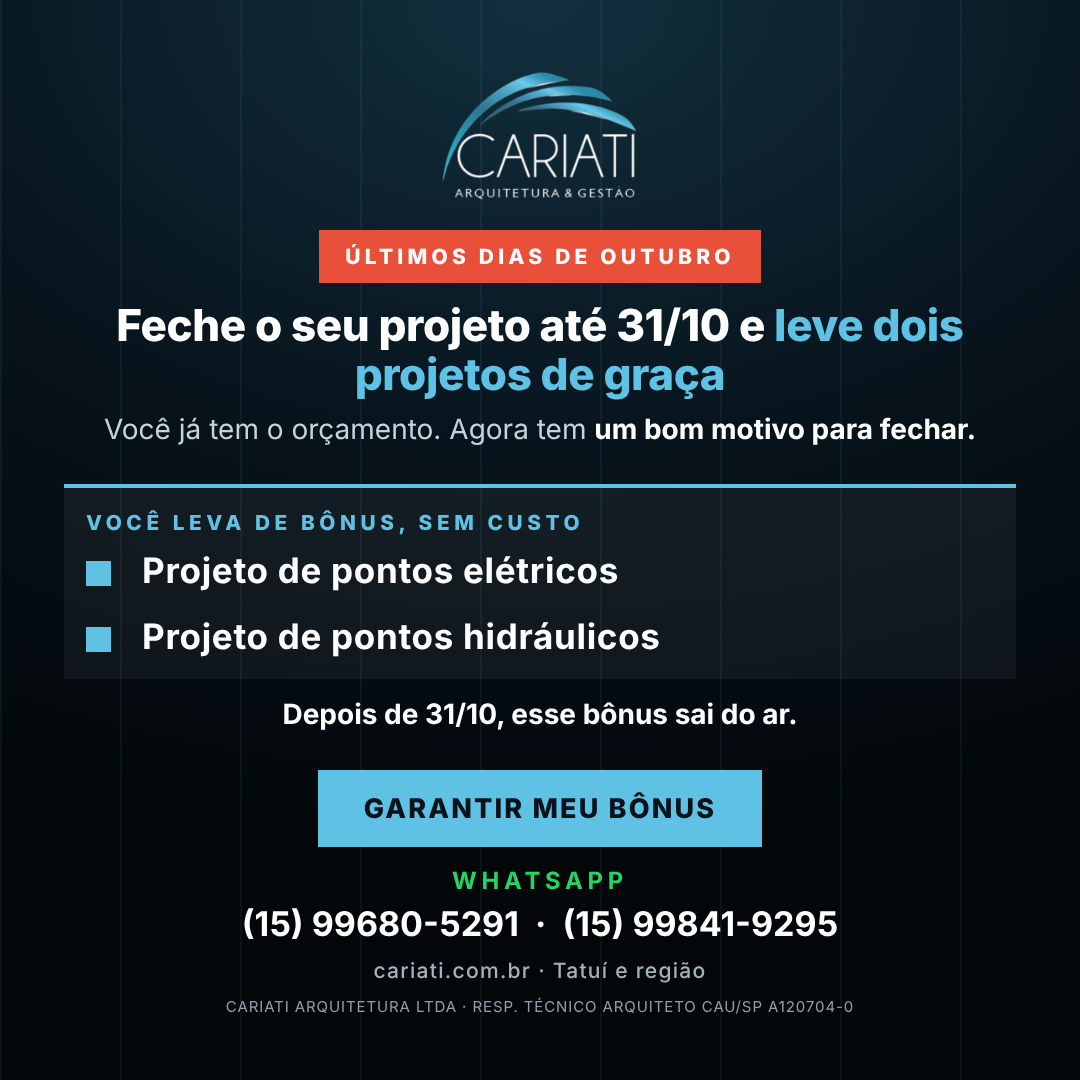
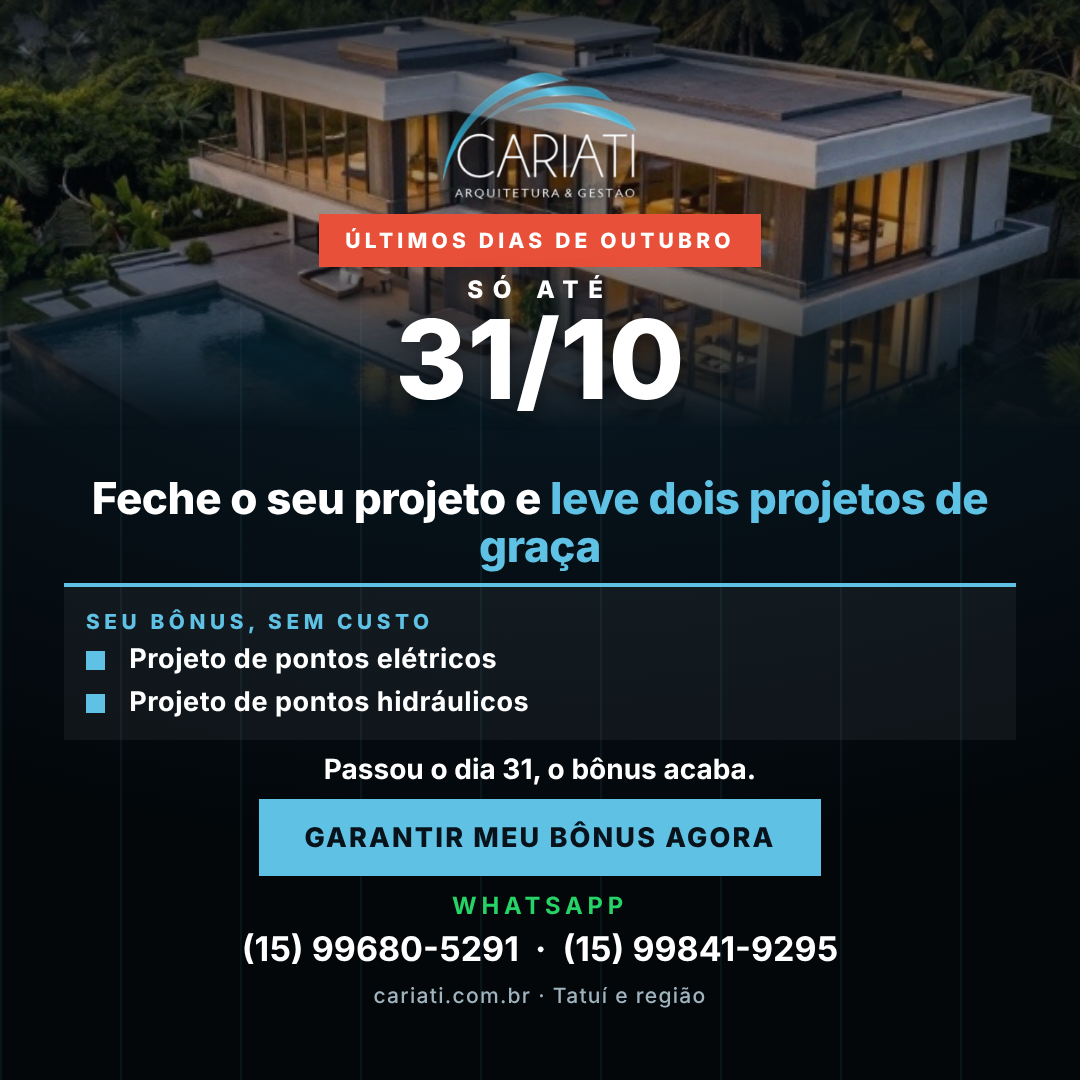
Promo creative: house photo hero and strong scarcity (deadline 31/10)
Claude-Session: https://claude.ai/code/session_012W4cPJrLBDcgKi33Cw4yCm

diff --git a/flyers_cariati/build.py b/flyers_cariati/build.py
@@ -39,6 +39,12 @@ h1 em{font-style:normal;color:#5fc1e3}
 .dh{font-size:var(--dh)}
 .light .card p{color:#0b1f2b}
 .urg{display:inline-block;background:#e8503a;color:#fff;font-weight:800;letter-spacing:.2em;text-transform:uppercase;font-size:var(--e);padding:14px 26px}
+.hero{position:absolute;left:0;top:0;width:100%;height:var(--hh);background-size:cover;background-position:center 35%}
+.hero{-webkit-mask-image:linear-gradient(180deg,#000 55%,transparent 100%);mask-image:linear-gradient(180deg,#000 55%,transparent 100%)}
+.hero:after{content:'';position:absolute;inset:0;background:linear-gradient(180deg,rgba(3,10,16,.78) 0%,rgba(3,10,16,.35) 30%,rgba(3,10,16,.45) 100%)}
+.ov{color:#fff;text-shadow:0 4px 24px rgba(0,0,0,.6)}
+.ovs{font-weight:800;letter-spacing:.4em;font-size:calc(var(--ds)*.22)}
+.ovd{font-weight:800;font-size:var(--ds);line-height:1}
 .grid3{display:grid;grid-template-columns:1fr 1fr 1fr;gap:var(--g3)}
 .card{background:rgba(255,255,255,.05);border-top:4px solid #5fc1e3;padding:var(--cd)}
 .card .l{font-size:var(--cl);font-weight:800;color:#5fc1e3}
@@ -75,8 +81,8 @@ PH=mkph('(15) 99841-9295')
 PH2=mkph('(15) 99841-9295')
 FOOT='<div class="foot z">CARIATI ARQUITETURA LTDA · RESP. TÉCNICO ARQUITETO CAU/SP A120704-0</div>'
 V=dict(w=1080,h=1920)
-VV=dict(p="90px",lh="190px",e="26px",h1="74px",s="36px",g="36px",c="34px",cp="30px 60px",t="44px",fs="19px",ls="42px",lg="30px",big="260px",ph="64px",dh="76px",sn="74px",sl="26px",chg="18px",chf="40px",chp="20px 20px",g3="22px",cd="26px",cl="30px",ch="38px",cp2="27px")
-SQ=dict(p="64px",lh="140px",e="21px",h1="64px",s="28px",g="26px",c="27px",cp="22px 46px",t="34px",fs="15px",ls="35px",lg="24px",big="150px",ph="44px",dh="52px",sn="42px",sl="19px",chg="10px",chf="25px",chp="11px 10px",g3="16px",cd="22px",cl="26px",ch="32px",cp2="23px")
+VV=dict(p="90px",lh="190px",e="26px",h1="74px",s="36px",g="36px",c="34px",cp="30px 60px",t="44px",fs="19px",ls="42px",lg="30px",big="260px",hh="900px",ds="190px",ph="64px",dh="76px",sn="74px",sl="26px",chg="18px",chf="40px",chp="20px 20px",g3="22px",cd="26px",cl="30px",ch="38px",cp2="27px")
+SQ=dict(p="64px",lh="140px",e="21px",h1="64px",s="28px",g="26px",c="27px",cp="22px 46px",t="34px",fs="15px",ls="35px",lg="24px",big="150px",hh="430px",ds="110px",ph="44px",dh="52px",sn="42px",sl="19px",chg="10px",chf="25px",chp="11px 10px",g3="16px",cd="22px",cl="26px",ch="32px",cp2="23px")
 def photo(img,h,pos="center"):
     return f"<div class='photo z' style=\"flex:none;height:{h}px;background-image:url('assets/{img}');background-position:{pos}\"></div>"
 def sp(n): return f"<div style='height:{n}px;flex:none'></div>"
@@ -165,14 +171,16 @@ def dica(n,hook,corpo,pratica):
 def fpromo(vert):
     bonus=lambda t:f'<li>{t}</li>'
     bl=bonus("Projeto de pontos elétricos")+bonus("Projeto de pontos hidráulicos")
-    box=f'<div class="card z promo" style="text-align:left"><div class="l" style="letter-spacing:.22em;font-size:calc(var(--cl)*.8)">VOCÊ LEVA DE BÔNUS, SEM CUSTO</div><ul class="list" style="margin-top:14px">{bl}</ul></div>'
-    badge='<div class="z" style="align-self:center"><span class="urg">Últimos dias de outubro</span></div>'
-    h='<h1 class="z" style="font-size:var(--ph);line-height:1.12">Feche o seu projeto até 31/10 e <em>leve dois projetos de graça</em></h1>'
-    intro='<p class="sub z">Você já tem o orçamento. Agora tem <b>um bom motivo para fechar.</b></p>'
-    valid='<div class="sub z" style="font-size:var(--s)"><b>Depois de 31/10, esse bônus sai do ar.</b></div>'
+    box=f'<div class="card z promo" style="text-align:left"><div class="l" style="letter-spacing:.22em;font-size:calc(var(--cl)*.8)">SEU BÔNUS, SEM CUSTO</div><ul class="list" style="margin-top:12px">{bl}</ul></div>'
+    hero="<div class='hero' style=\"background-image:url('assets/casa_piscina.jpg')\"></div>"
+    lg='<img class="logo z" src="assets/logo_branco.png" style="height:var(--lh);align-self:center">'
+    urg='<div class="z" style="align-self:center"><span class="urg">Últimos dias de outubro</span></div>'
+    date='<div class="z ov" style="text-align:center"><div class="ovs">SÓ ATÉ</div><div class="ovd">31/10</div></div>'
+    h='<h1 class="z" style="font-size:var(--ph);line-height:1.1">Feche o seu projeto e <em>leve dois projetos de graça</em></h1>'
+    loss='<div class="sub z" style="font-size:var(--s)"><b>Passou o dia 31, o bônus acaba.</b></div>'
     if vert:
-        return L+sp(40)+badge+sp(34)+h+sp(30)+intro+flex()+box+sp(34)+valid+flex()+'<div class="cta z">Garantir meu bônus</div>'+sp(36)+PH+sp(28)+FOOT
-    return L+sp(26)+badge+sp(18)+h+sp(10)+intro+flex()+box+sp(16)+valid+flex()+'<div class="cta z">Garantir meu bônus</div>'+sp(16)+PH+sp(10)+FOOT
+        return hero+lg+sp(36)+urg+sp(40)+date+sp(330)+h+sp(30)+box+sp(28)+loss+flex()+'<div class="cta z">Garantir meu bônus agora</div>'+sp(34)+PH+sp(26)+FOOT
+    return hero+lg+sp(10)+urg+sp(8)+date+sp(60)+h+sp(12)+box.replace('<ul class="list" style="margin-top:12px">','<ul class="list" style="margin-top:8px;--ls:27px;--lg:10px">')+sp(10)+loss+flex()+'<div class="cta z">Garantir meu bônus agora</div>'+sp(12)+PH+sp(4)
 FL=[("01_tudo_em_um_so_lugar",f1),("02_400_obras",f2),("03_metodo_ppg",f3),("04_vamos_conversar",f4),("05_financiamento_caixa",f5),("06_equipe",f6),("07_gestao_de_obras",f7),("08_projetos_e_equipe",f8)]+[(f"dica_{d[0]}",dica(*d)) for d in DICAS]+[("promo_outubro",fpromo)]
 import json
 jobs=[]
